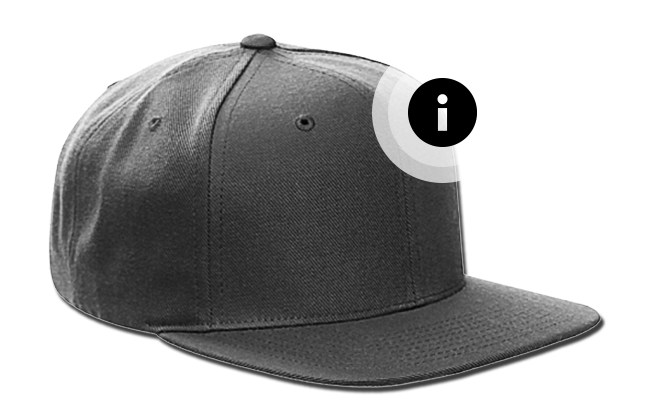
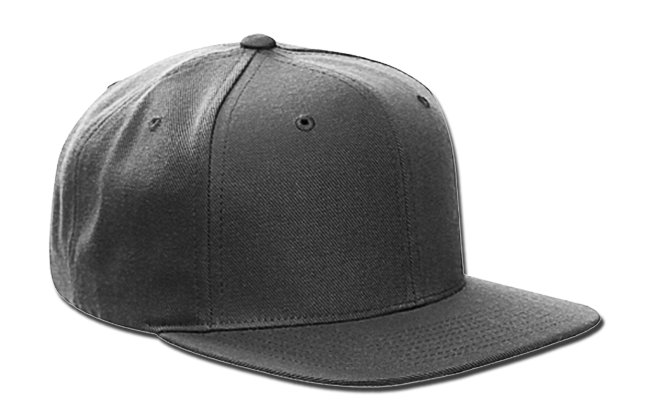
style

Changed region(s): [[0.5538, 0.1548, 0.7385, 0.4333]]

diff --git a/app/assets/stylesheets/custom.scss b/app/assets/stylesheets/custom.scss
@@ -100,7 +100,7 @@
   width: 100%;
   height: auto;
   bottom: 14%;
-  left: 50%;
+  left: 55%;
   margin-left: -30%;
   z-index: 10;
 }
@@ -198,6 +198,13 @@
 	margin-left: 0%;
 }
 
+.hotspot {
+  position: absolute;
+  z-index: 999;
+  margin: 30px 0px 0px 150px;
+  opacity: .7;
+}
+
 .btn {
   background: #000000;
   background-image: -webkit-linear-gradient(top, #000000, #131920);
@@ -231,7 +238,7 @@
   width: 100%;
   height: auto;
   bottom: 8%;
-  left: 50%;
+  left: 55%;
   margin-left: -25%;
   z-index: 10;  
   font-size: .8em;
